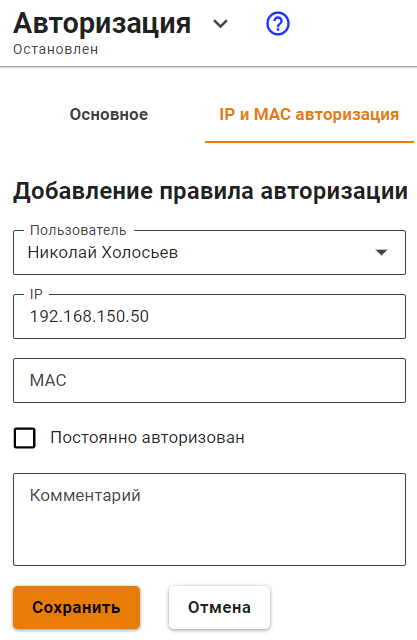
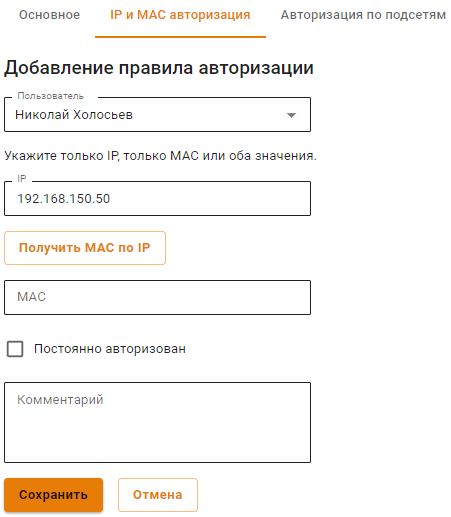
ICS-28438 УТМ. Обновить статьи авторизации

diff --git a/settings/users/authorization/ip-and-mac-authorization/ip-authorization.md b/settings/users/authorization/ip-and-mac-authorization/ip-authorization.md
@@ -1,10 +1,8 @@
 # Авторизация по IP-адресу
 
-## Настройка авторизации по IP
+При авторизации по IP пользователь получит доступ до Интернет-ресурсов после инициации подключения. Без ввода логина и пароля.
 
-Авторизация по IP подразумевает, что авторизованный пользователь будет получать доступ до Интернет-ресурсов без ввода логина и пароля, а просто инициировав подключение к этим ресурсам.
-
-Также можно авторизовать сетевые устройства (такие, как камеры видеонаблюдения, сетевые принтеры и прочее), которые находятся в разных с Ideco UTM широковещательных доменах и требуют доступ в Интернет.
+Также можно авторизовать сетевые устройства (камеры видеонаблюдения, сетевые принтеры и прочее), которые находятся в разных с Ideco UTM широковещательных доменах и требуют доступ в Интернет.
 
 {% hint style="info" %}
 Если устройством является маршрутизатор и в нем включен SNAT, то при авторизации его внешнего IP на UTM, все пользователи за этим маршрутизатором получат доступ в Интернет.
@@ -14,43 +12,41 @@
 Если настроена авторизация по IP-адресу, то этот IP не будет выдаваться [DHCP](../../../services/dhcp.md).
 {% endhint %}
 
+## Настройка авторизации по IP
+
 Чтобы авторизовать пользователя по IP-адресу:
 
 1\. [Создайте](../../user-tree/user-management.md) пользователя в Ideco UTM или [импортируйте](../../active-directory/user-import.md) его из Active Directory, который будет авторизован по IP.
 
-2\. Перейдите в раздел **Пользователи -> Авторизация -> IP и MAC авторизация**.
+2\. Перейдите в раздел **Пользователи -> Учетные записи -> карточка пользователя -> IP и MAC авторизация** или **Пользователи -> Авторизация -> IP и MAC авторизация**. 
 
-3\. Создайте правило-связку **IP-адрес <--> Пользователь**, как показано на скриншоте.
+3\. Создайте правило-связку **IP-адрес <--> Пользователь**:
 
-![](../../../../.gitbook/assets/ip-authorization.png)
-
-{% hint style="info" %}
-IP-адрес пользователя, который будет использоваться при создании сессии. У компьютера/устройства IP-адрес должен совпадать с указанным в правиле. 
-{% endhint %}
+![Создание правила в разделе Авторизация](../../../../.gitbook/assets/ip-authorization.png)
 
 {% hint style="info" %}
-Если пользователем является сетевое оборудование (видеокамеры, сервера и прочее), то желательно настроить **Постоянную авторизацию**,\
-при этом сессия пользователя будет создана после загрузки UTM и сетевому оборудованию не нужно делать запрос в Интернет. У такого оборудования стоит настроить статический IP-адрес или DHCP с привязкой по IP-адресу.
-
-Это требуется, например, для ресурсов [опубликованных через DNAT](../../../publishing-resources/portmapping.md).
+IP-адрес на компьютере/устройстве, с которого инициируется сессия, должен совпадать с указанным в правиле.
 {% endhint %}
 
-После того как пользователь делает запрос в Интернет, на UTM будет автоматически создана сессия с типом авторизации `IP` в разделе **Мониторинг -> Авторизованные пользователи**.
+Для пользователя, которым является сетевое оборудование, рекомендуем настроить **Постоянную авторизацию**. Это позволит UTM создать сессию, а сетевому оборудованию не потребуется делать запрос в Интернет. \
+Так же рекомендуем настроить статический IP-адрес или DHCP с привязкой по IP-адресу. Это требуется, например, для ресурсов [опубликованных через DNAT](../../../publishing-resources/portmapping.md).
+
+{% hint style="info" %}
+Воспользуйтесь поиском устройств для автоматического создания пользователей при попытке выхода в Интернет. Подробнее о настройке читайте в статье [Обнаружение устройств](../../device-discovery.md).
+{% endhint %}
+
+{% hint style="warning" %}
+Если используется авторизация по IP со статической привязкой в DHCP, то рекомендуем перенести такие правила на [авторизацию по MAC-адресу](mac-authorization.md).
+{% endhint %}
+
+## Просмотр сессии
+
+После того как пользователь делает запрос в Интернет, на UTM будет автоматически создана сессия с типом авторизации `IP` в разделе **Мониторинг -> Авторизованные пользователи**:
 
 ![](../../../../.gitbook/assets/ip-authorization1.png)
 
 {% hint style="warning" %}
-У сессий с типом авторизации `IP` не заполняется поле **MAC-адрес**, потому что\
-при данном типе авторизации уже имеется IP-адрес, необходимый для создания сессии авторизации.
+У сессий с типом `IP` не заполняется поле **MAC-адрес**, так как уже указан IP-адрес, необходимый для создания сессии.
 {% endhint %}
 
-{% hint style="info" %}
-Вы можете воспользоваться поиском устройств для автоматического создания пользователей при их попытке выхода в Интернет. Для этого воспользуйтесь статьей [Обнаружение устройств](../../device-discovery.md).
-{% endhint %}
-
-Под одним пользователем можно авторизовать только одно устройство по IP-адресу (одновременно с данным типом авторизации под одним пользователем можно авторизовать еще два устройства любым другим методом авторизации).
-
-{% hint style="warning" %}
-Если у Вас используется авторизации по IP со статической привязкой в DHCP,\
-то предпочтительно будет перенести такие правила на [авторизацию по MAC-адресу](mac-authorization.md).
-{% endhint %}
+Под одним пользователем можно авторизовать только одно устройство по IP-адресу. Но одновременно с данным типом авторизации под одним пользователем можно авторизовать еще четыре устройства любым другим методом авторизации.

diff --git a/settings/users/authorization/ip-and-mac-authorization/mac-authorization.md b/settings/users/authorization/ip-and-mac-authorization/mac-authorization.md
@@ -72,7 +72,7 @@ Ideco UTM.
 
 {% hint style="info" %}
 Если у пользователя не появляется доступ и вторая сессия с авторизацией по\
-MAC-адресу, то это могло произойти из-за того, что у пользователя не обновились сетевые реквизиты.
+MAC-адресу, то у пользователя не обновились сетевые реквизиты.
 
 Сбросьте старые сетевые реквизиты от DHCP-сервера и получите новые с помощью команды: `ipconfig /release && ipconfig /renew`.
 {% endhint %}
@@ -80,11 +80,10 @@ MAC-адресу, то это могло произойти из-за того, 
 ## Настройка авторизации по MAC-адресу для сетевого принтера и других сетевых устройств
 
 {% hint style="info" %}
-Сетевые принтеры и прочие сетевые устройства, которым необходим доступ\
-во Интернет, должны быть авторизованы на UTM. Такие устройства можно назвать статическими и для них отлично подойдет авторизация по MAC-адресу.
+Сетевым устройствам, которым необходим доступ в Интернет, должны быть авторизованы на UTM. Такие устройства можно назвать статическими и для них подойдет авторизация по MAC-адресу.
 {% endhint %}
 
-Для того чтобы авторизовать сетевой принтер, необходимо создать пользователя для этого принтера вручную или через [Обнаружение устройств](../../device-discovery.md).
+Для авторизации сетевого принтера, необходимо создать пользователя для этого принтера вручную или через [Обнаружение устройств](../../device-discovery.md).
 
 ![](../../../../.gitbook/assets/mac-authorization5.png)
 
